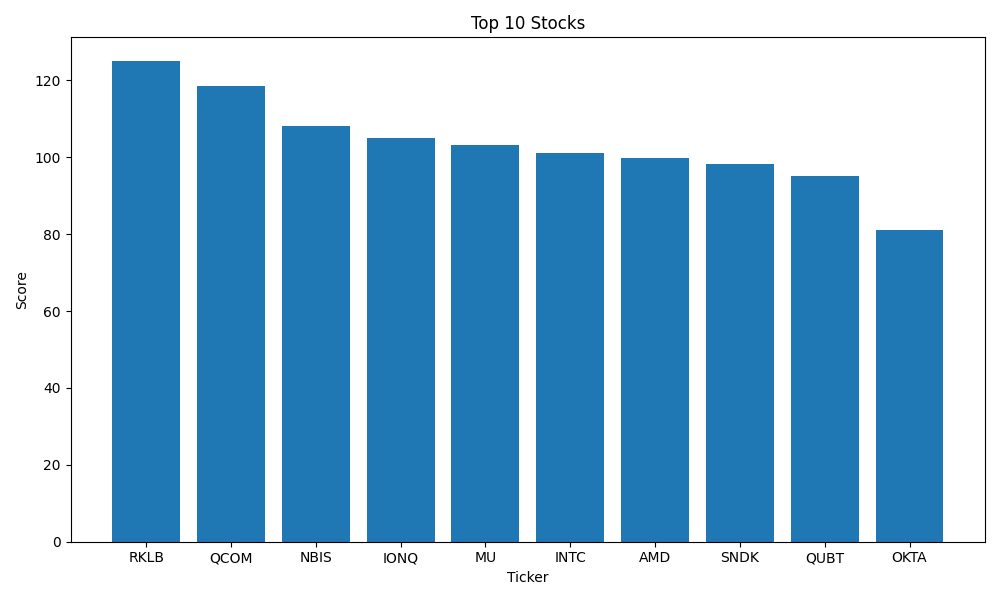
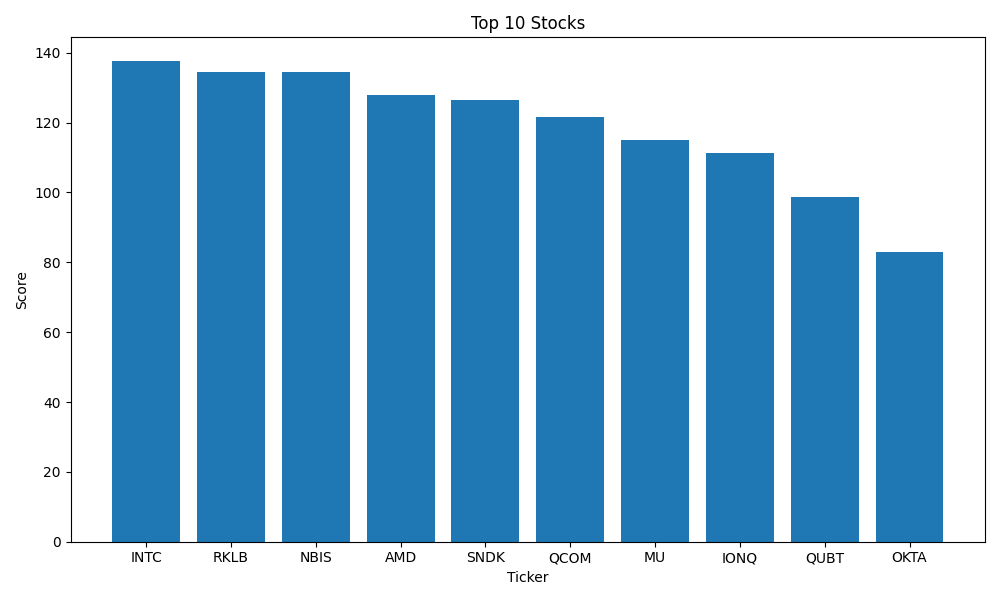
Add 60 day high breakout score

diff --git a/rank_stocks_v2.py b/rank_stocks_v2.py
@@ -9,7 +9,9 @@ def calculate_rank_score(
     latest_ma20,
     latest_ma60,
     recent_return,
-    return_60d
+    return_60d,
+    volume_ratio,
+    latest_high60
 ):
 
     score = 0
@@ -22,7 +24,10 @@ def calculate_rank_score(
 
     score += recent_return * 70
     score += return_60d * 30
-
+    if volume_ratio > 1.5:
+        score += 20
+    if latest_close >= latest_high60:
+        score += 20
     return score
 
 import pandas as pd
@@ -40,10 +45,20 @@ def rank_stocks(tickers):
 
         df["MA20"] = df["Close"].rolling(window=20).mean()
         df["MA60"] = df["Close"].rolling(window=60).mean()
+        df["High60"] = df["Close"].rolling(window=60).max()
+        df["VolumeMA20"] = df["Volume"].rolling(window=20).mean()
 
         latest_close = df["Close"].iloc[-1]
         latest_ma20 = df["MA20"].iloc[-1]
         latest_ma60 = df["MA60"].iloc[-1]
+        latest_high60 = df["High60"].iloc[-1]
+        latest_volume = df["Volume"].iloc[-1]
+        latest_volume_ma20 = df["VolumeMA20"].iloc[-1]
+
+        volume_ratio = (
+            latest_volume /
+            latest_volume_ma20
+        )
 
         recent_return = (
             df["Close"].iloc[-1]
@@ -61,7 +76,9 @@ def rank_stocks(tickers):
             latest_ma20,
             latest_ma60,
             recent_return,
-            return_60d
+            return_60d,
+            volume_ratio,
+            latest_high60
         )
 
         results.append({
@@ -71,6 +88,7 @@ def rank_stocks(tickers):
             "MA60": latest_ma60,
             "20Day_Return": recent_return,
             "60Day_Return": return_60d,
+            "Volume_Ratio": volume_ratio,
             "Score": score
         })
 